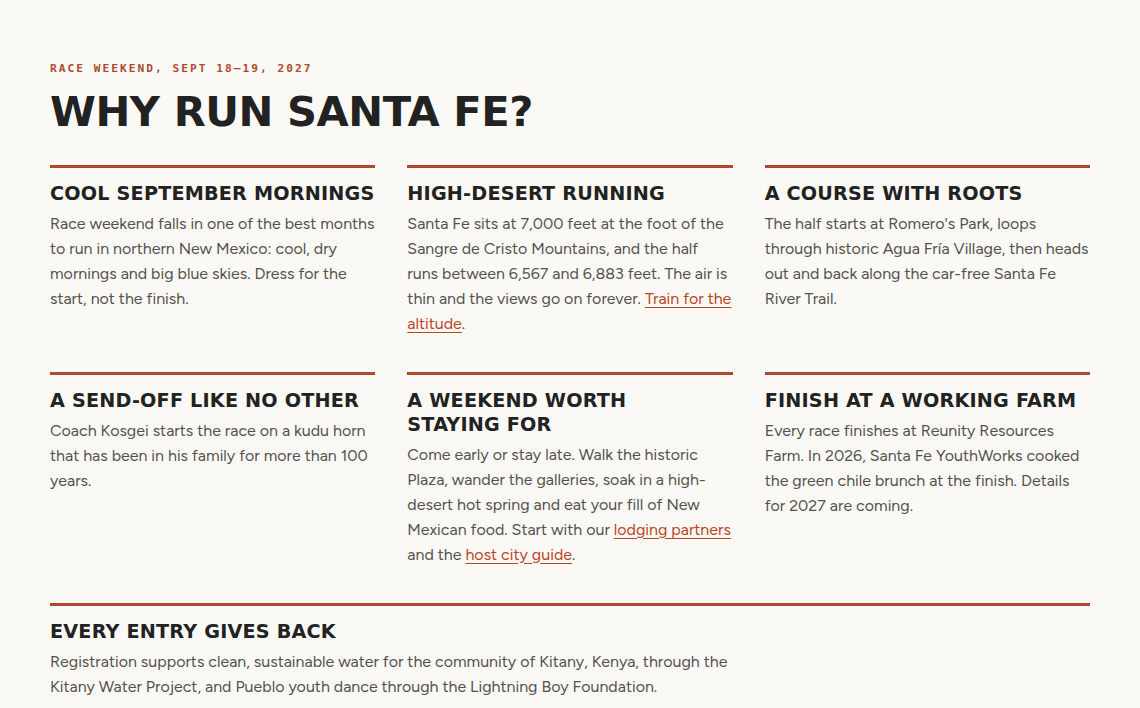
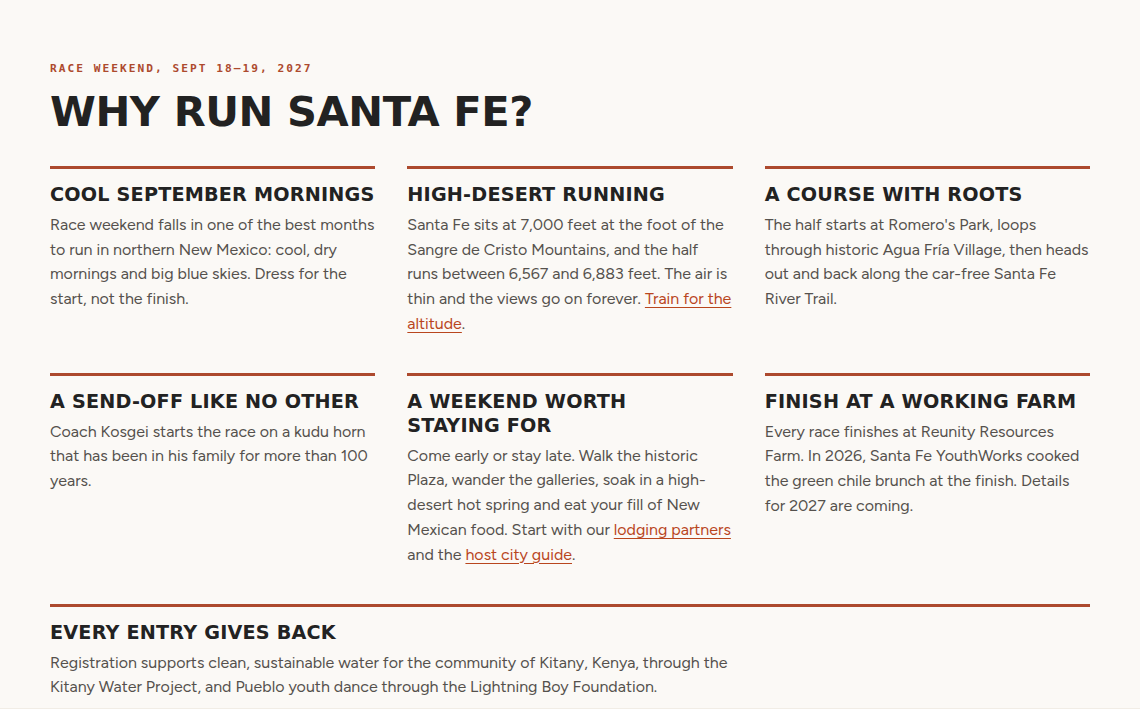
Why run Santa Fe: take the story section's place and remove the three-friends story
Claude-Session: https://claude.ai/code/session_014FqPAN3hJZLXHN9zwXYjdL

diff --git a/wp-snippets/sfhm-why-santa-fe/script.js b/wp-snippets/sfhm-why-santa-fe/script.js
@@ -1,6 +1,10 @@
 /* SFHM-WHY-SANTA-FE 2026-09-28 -- see README.md next to this file.
-   Inserts the "Why run Santa Fe?" section just above the race cards (#races)
-   and keeps it there, in the language the ES/EN toggle is set to.
+   Puts the "Why run Santa Fe?" section where the homepage story section
+   ("Why we run this one") was: in place of #story, or just above #impact now
+   that the live page no longer shows the story, and keeps it there in the language the ES/EN
+   toggle is set to. Also swaps the three-friends paragraph in "The Voice of the
+   River Trail" for the community paragraph, and points the "Our Story" menu
+   link at the new section. Switch the snippet off and the page is as before.
    Every claim below was fact-checked on 2026-09-28 (see README). Do not add
    numbers, times or partner names here without the same check. */
 (function () {
@@ -49,6 +53,15 @@
     }
   };
 
+  /* Replacement for the second "Voice of the River Trail" paragraph (the
+     three-friends founding story). Same wording as the homepage source. */
+  var VOICE = {
+    en: "My modern chapter is written by this community. Each September the runners come, from down the road and from far away, and the people of Santa Fe come with them: volunteers at every aid station and exchange zone, neighbors along the route, and a farm that opens its gates for the finish. The 3-Amigos Relay carries that spirit in miniature: three runners, one sash, one finish.",
+    es: "Mi cap\u00edtulo moderno lo escribe esta comunidad. Cada septiembre llegan los corredores, de aqu\u00ed al lado y de muy lejos, y la gente de Santa Fe llega con ellos: voluntarios en cada puesto de hidrataci\u00f3n y cada zona de relevo, vecinos a lo largo del recorrido y una granja que abre sus puertas para la meta. El Relevo 3-Amigos lleva ese esp\u00edritu en peque\u00f1o: tres corredores, una faja, una meta."
+  };
+  var MENU = { en: "Why run Santa Fe?", es: "\u00bfPor qu\u00e9 Santa Fe?" };
+  var FOUNDERS = /Joseph Karnes|Antonio Lopez/;
+
   var node = null, lang = null;
 
   /* The ES/EN toggle shows the language you would switch TO, so "EN" means Spanish is on. */
@@ -76,15 +89,66 @@
     return s;
   }
 
-  function ensure() {
-    var races = document.getElementById("races");
-    if (!races || !races.parentNode) return;
-    var l = currentLang();
-    if (node && node.nextElementSibling === races && l === lang) return;
+  function placeSection(l) {
+    /* Where the story section was: in place of #story if the page still has
+       it, otherwise between the course section and "Two charities" (#impact).
+       #races is a last resort so the section never disappears. */
+    var story = document.getElementById("story");
+    var anchor = story || document.getElementById("impact") || document.getElementById("races");
+    if (!anchor || !anchor.parentNode) return;
+    document.documentElement.classList.toggle("sfhm-why-on", !!story);
+    if (node && node.nextElementSibling === anchor && l === lang) return;
     if (node && node.parentNode) node.parentNode.removeChild(node);
     lang = l;
     node = build(l);
-    races.parentNode.insertBefore(node, races);
+    anchor.parentNode.insertBefore(node, anchor);
+  }
+
+  /* Hide any paragraph that tells the three-friends story and show the
+     community paragraph right after it. The original stays in the DOM (hidden)
+     so React can keep updating it when the language changes. */
+  function fixVoice(l) {
+    var ps = document.querySelectorAll("#main p");
+    for (var i = 0; i < ps.length; i++) {
+      var p = ps[i];
+      if (p.classList.contains("sfhm-voice")) continue;
+      var next = p.nextElementSibling;
+      var ours = next && next.classList.contains("sfhm-voice") ? next : null;
+      if (!FOUNDERS.test(p.textContent || "")) {
+        if (ours) ours.parentNode.removeChild(ours);
+        p.classList.remove("sfhm-hide");
+        continue;
+      }
+      p.classList.add("sfhm-hide");
+      if (!ours) {
+        ours = p.cloneNode(false);
+        ours.classList.remove("sfhm-hide");
+        ours.classList.add("sfhm-voice");
+        p.parentNode.insertBefore(ours, p.nextSibling);
+      }
+      if (ours.textContent !== VOICE[l]) ours.textContent = VOICE[l];
+    }
+  }
+
+  /* The phone menu's "Our Story" link pointed at #story, which is now hidden. */
+  function fixMenu(l) {
+    if (!document.getElementById("story")) return;
+    var links = document.querySelectorAll('a[href="#story"], a[href="#sfhm-why"][data-sfhm-why]');
+    for (var i = 0; i < links.length; i++) {
+      var a = links[i];
+      if (a.getAttribute("href") !== "#sfhm-why") a.setAttribute("href", "#sfhm-why");
+      a.setAttribute("data-sfhm-why", "1");
+      var leaf = a;
+      while (leaf.children.length === 1) leaf = leaf.children[0];
+      if (!leaf.children.length && leaf.textContent !== MENU[l]) leaf.textContent = MENU[l];
+    }
+  }
+
+  function ensure() {
+    var l = currentLang();
+    placeSection(l);
+    fixVoice(l);
+    fixMenu(l);
   }
 
   function start() {

diff --git a/wp-snippets/sfhm-why-santa-fe/style.css b/wp-snippets/sfhm-why-santa-fe/style.css
@@ -1,6 +1,6 @@
 /* SFHM-WHY-SANTA-FE 2026-09-28
-   "Why run Santa Fe?" tiles, inserted by script.js just above the race cards
-   (#races). Uses the page's own tokens (--terra, --ink, --line, --sand-2) so it
+   "Why run Santa Fe?" tiles, inserted by script.js in place of the homepage
+   story section (#story), which is hidden only once the tiles are in. Uses the page's own tokens (--terra, --ink, --line, --sand-2) so it
    follows light and dark mode like the rest of the homepage. */
 
 #sfhm-why { padding: 56px 0 8px; }
@@ -43,3 +43,9 @@ html body #sfhm-why .why-item h3 {
   #sfhm-why { padding-top: 40px; }
   #sfhm-why .why-item p { font-size: .95rem; }
 }
+
+/* The tiles replace the story section. The class is set by script.js only
+   after the tiles are on the page, so the story never leaves a blank gap. */
+html.sfhm-why-on #story { display: none !important; }
+#main p.sfhm-hide { display: none !important; }
+#sfhm-why { scroll-margin-top: 90px; }

diff --git a/wp-snippets/sfhm-why-santa-fe/README.md b/wp-snippets/sfhm-why-santa-fe/README.md
@@ -1,7 +1,18 @@
 # Homepage: "Why run Santa Fe?" section
 
-Seven short tiles inserted just above the race cards (`#races`), in English and
-Spanish (follows the ES/EN toggle). Three across on computers, two on tablets,
+Seven short tiles that take the place of the old story section ("Why we run
+this one"), in English and Spanish (follows the ES/EN toggle).
+
+Placement: if the page still has the story section (`#story`), the tiles go in
+its place and the story is hidden. The live page stopped showing the story on
+2026-09-28, so today the tiles sit where it used to be: after the course
+section and just above "Two charities. Two community partners." (`#impact`).
+
+The snippet also removes the three-friends founding story wherever the homepage
+shows it: a paragraph naming Joseph Karnes or Antonio Lopez is hidden and the
+community paragraph ("My modern chapter is written by this community...") is
+shown instead, and an "Our Story" menu link to `#story` is pointed at the new
+section. Three across on computers, two on tablets,
 one on phones; the "Every entry gives back" tile closes the section as a full row.
 
 ## Fact check (2026-09-28)
